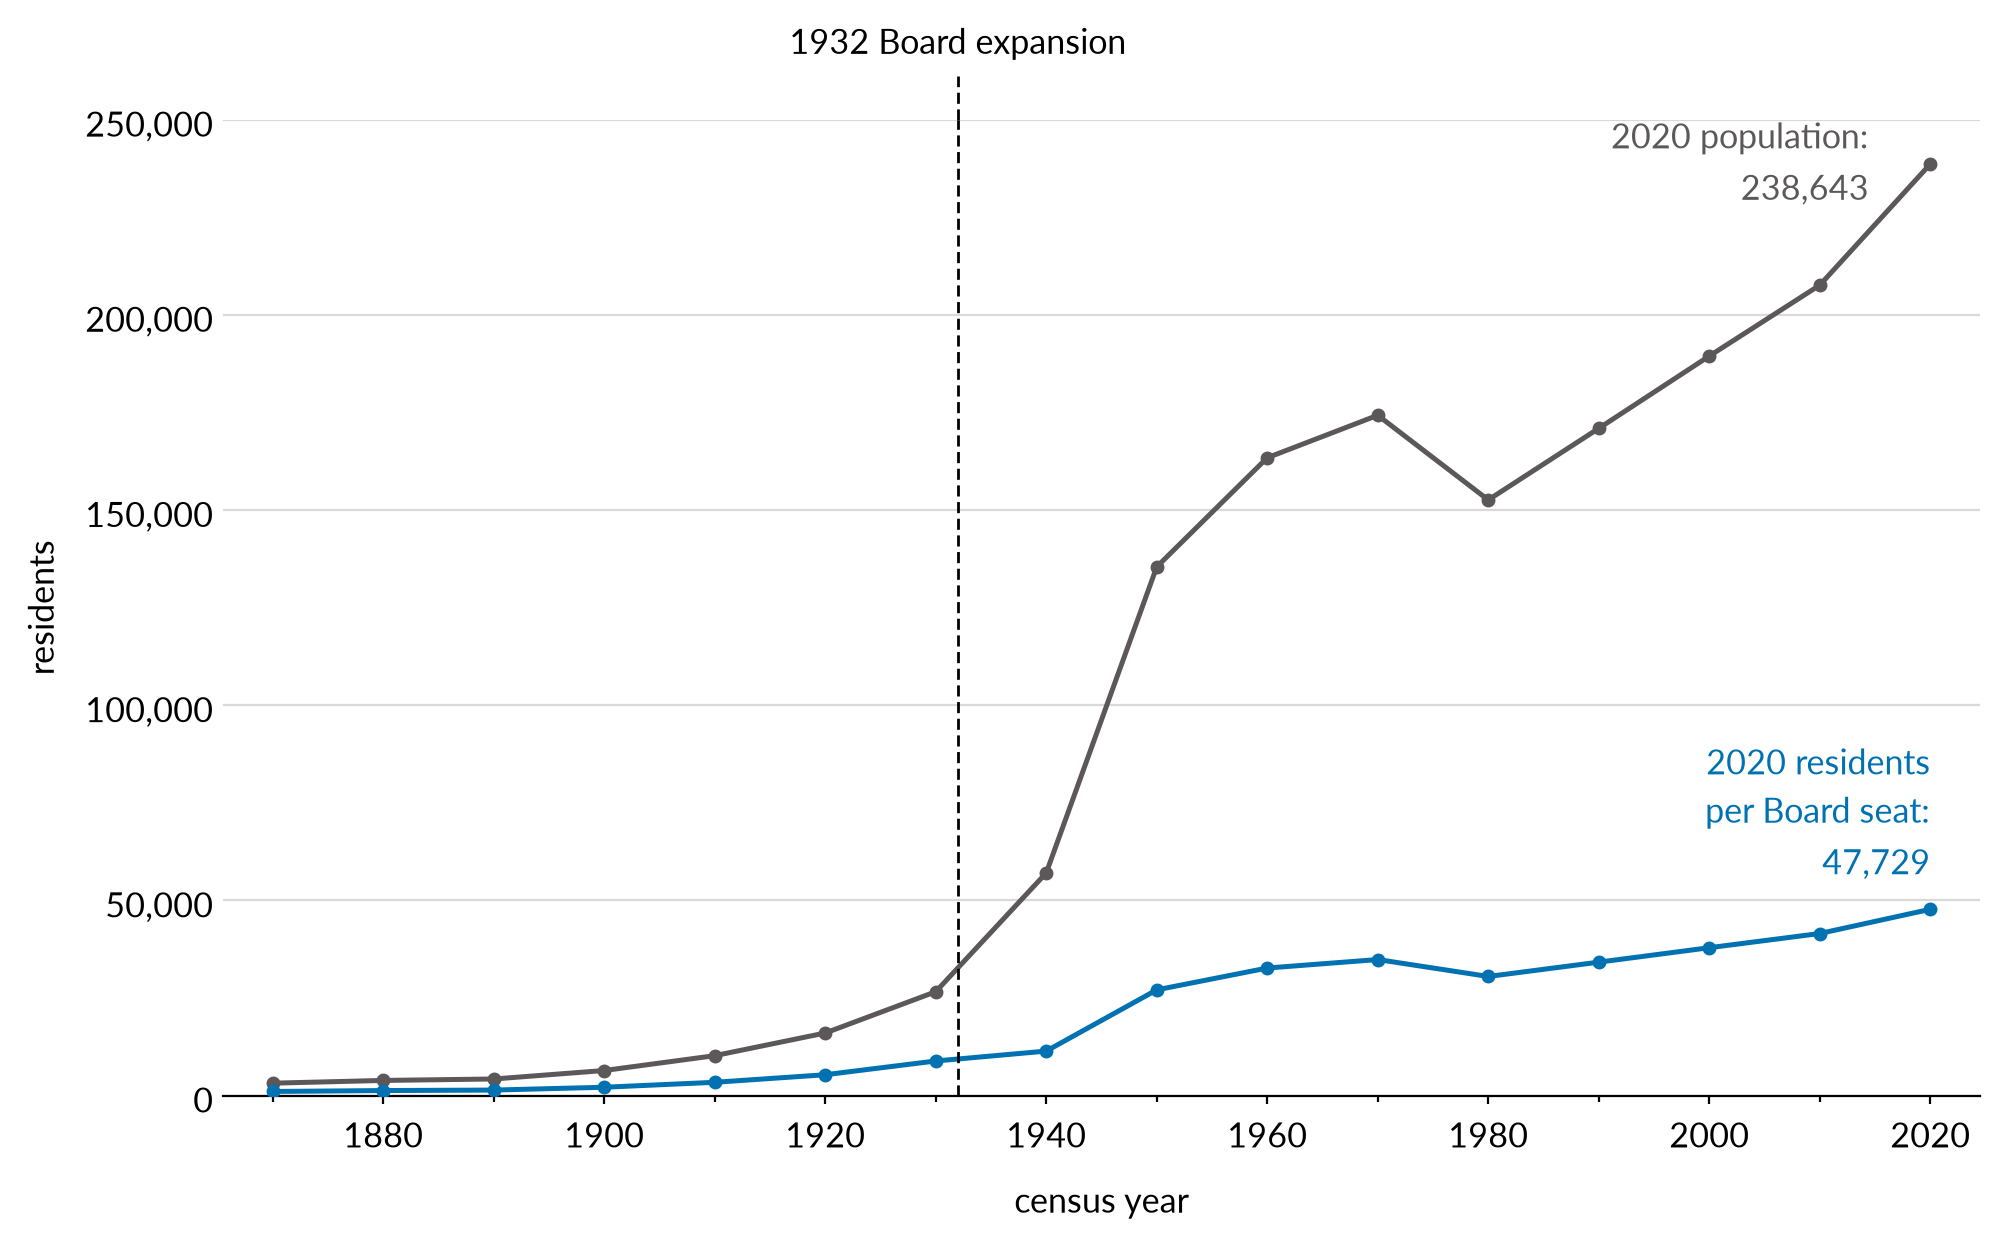
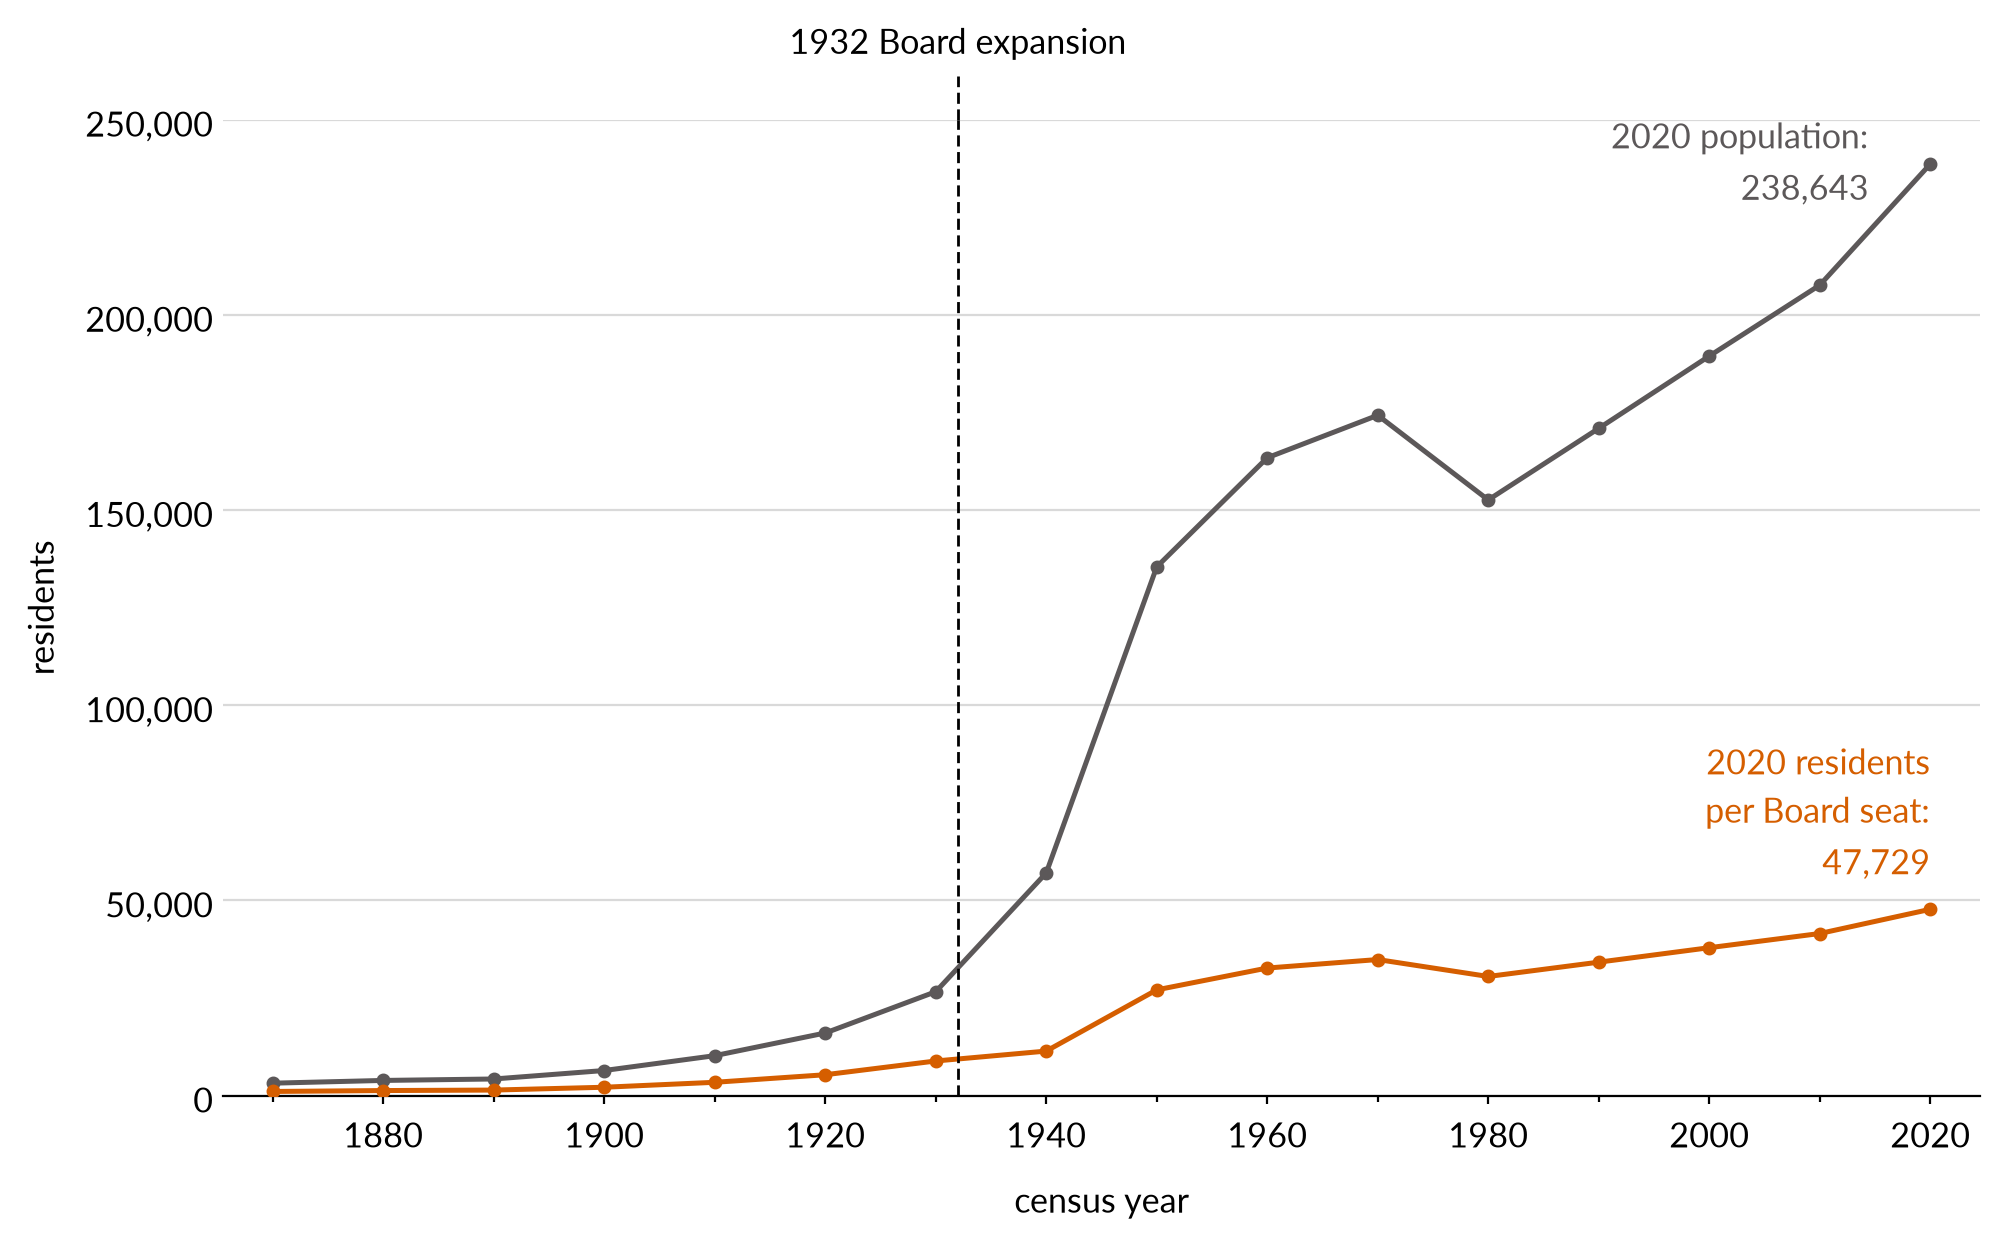
style: the growth figure's emphasis line is vermilion, not blue
Blue was doing two jobs: the residents-per-seat series here, and Asian and
Pacific Islander on the race charts. The same hex, OKABE_ITO["blue"], in both.
The growth figure comes first in the report, so a reader met the colour as a
series and then had to re-learn it as a racial category, which is the worse
direction of the two.

Changing this figure rather than moving AAPI again: AAPI has just moved once,
and the growth figure has no categories to name. Both its lines are labelled
where they run, so colour there is emphasis, not identification. Vermilion is
unused categorically and stays clear of the orange that carries Black
residents.

Grey was checked too and is not a collision: the residual is #8C8C8C and the
population line #5C5859, and they never appear in the same figure.

diff --git a/style/style.py b/style/style.py
@@ -115,8 +115,13 @@ GENDER_COLORS = {
     "women": OKABE_ITO["reddish_purple"],
     "men":   SAND,
 }
-# The growth figure: two counts of people, no categories.
-SERIES_COLORS = {"population": "#5C5859", "per_seat": OKABE_ITO["blue"]}
+# The growth figure: two counts of people, no categories. It took Okabe-Ito's
+# blue until that blue became Asian and Pacific Islander on the race charts, and
+# the growth figure comes first in the report - so a reader would have met the
+# colour as a series before meeting it as a category. Vermilion is not used
+# categorically anywhere, and nothing here needs a hue to be identified: both
+# lines are labelled where they run.
+SERIES_COLORS = {"population": "#5C5859", "per_seat": OKABE_ITO["vermilion"]}
 
 RESIDUAL_COLOR = GREY
 
